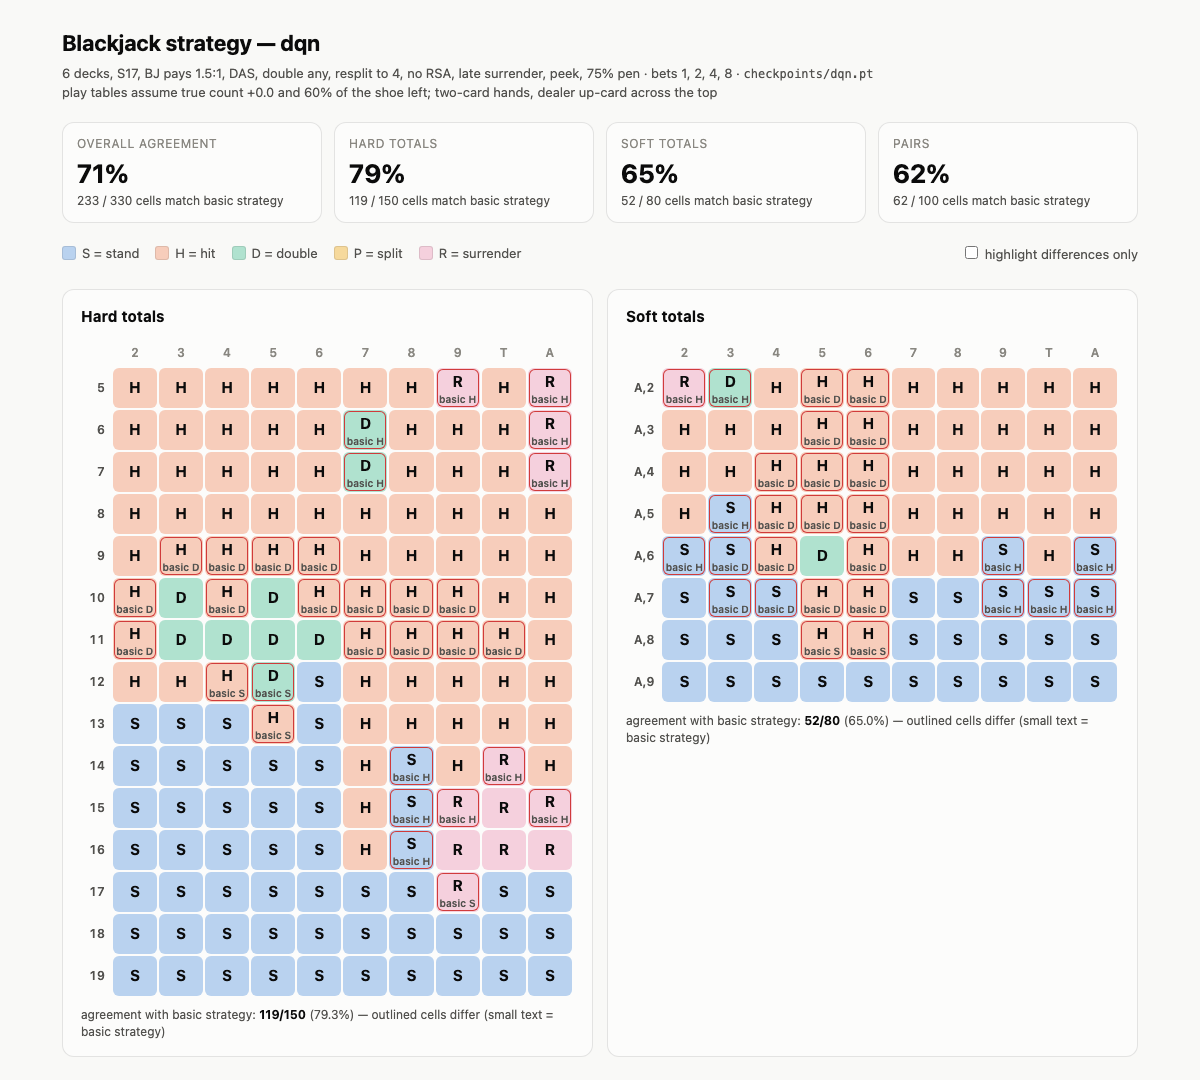
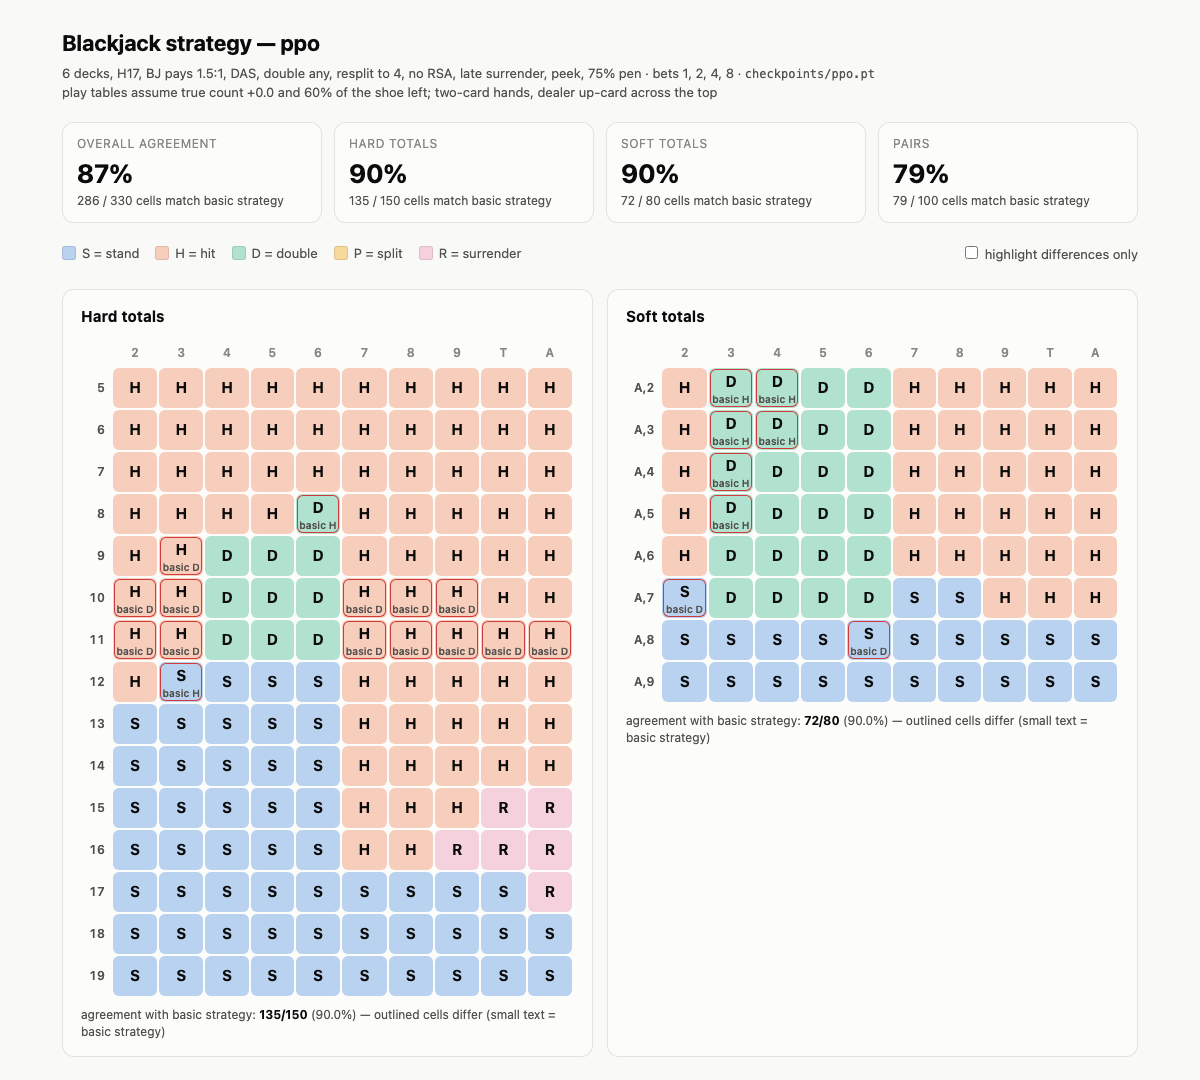
PPO: entropy coef 0.02 by default (learns bet spread); H17 results + strategy screenshot

diff --git a/blackjack_rl/cli/train_ppo.py b/blackjack_rl/cli/train_ppo.py
@@ -28,8 +28,8 @@ def main(argv=None) -> None:
     p.add_argument("--epochs", type=int, default=4)
     p.add_argument("--minibatches", type=int, default=8)
     p.add_argument("--clip", type=float, default=0.2)
-    p.add_argument("--ent-coef", type=float, default=0.005)
-    p.add_argument("--ent-coef-end", type=float, default=0.0)
+    p.add_argument("--ent-coef", type=float, default=0.02)
+    p.add_argument("--ent-coef-end", type=float, default=0.002)
     p.add_argument("--vf-coef", type=float, default=0.5)
     p.add_argument("--log-every", type=int, default=10)
     p.add_argument("--eval-every", type=int, default=50)

diff --git a/blackjack_rl/agents/ppo.py b/blackjack_rl/agents/ppo.py
@@ -157,8 +157,8 @@ class PPOConfig:
     minibatches: int = 8
     clip_coef: float = 0.2
     clip_vloss: bool = True
-    ent_coef: float = 0.005
-    ent_coef_end: float = 0.0        # linear anneal
+    ent_coef: float = 0.02           # keep exploring: with 0.005 the policy went deterministic before learning doubles/splits/bets
+    ent_coef_end: float = 0.002      # linear anneal
     vf_coef: float = 0.5
     max_grad_norm: float = 0.5
     norm_adv: bool = True

diff --git a/README.md b/README.md
@@ -212,7 +212,16 @@ Reference points (6D H17 DAS LS, bets 1/2/4/8, Apple M2 Max):
 
 | run | wall time | EV / unit wagered | agreement with basic strategy (hard / soft / pairs) | bet spread |
 |---|---|---|---|---|
-| basic strategy + Hi-Lo (benchmark) | – | ≈ −0.3 % … +0.3 % | 100 % | 1 → 8 |
-| PPO, 50M rounds, 2048 envs × 8 workers, MPS | PPO_TIME | PPO_EV | PPO_AGREE | PPO_SPREAD |
+| basic strategy, flat bet | – | −0.62 % | 100 % | flat |
+| basic strategy + Hi-Lo 1-2-4-8 (benchmark) | – | ≈ −0.3 % … +0.3 % | 100 % | 1 → 8 from TC +2 |
+| PPO, 50M rounds, `--ent-coef 0.005` | 28 min | −1.8 % | 85 / 93 / 54 % | none (flat 1; rarely doubles/splits, never surrenders) |
+| PPO, 50M rounds, `--ent-coef 0.02` (default) | 28 min | **−1.05 %** (last 200k-round eval −0.5 %) | **90 / 90 / 79 %** | **1 → 2 → 4 from TC +3/+4**, EV/round positive at TC ≥ +3 |
 
-PPO_NOTES
+The entropy coefficient turned out to be the important knob: with a small bonus the policy goes
+deterministic within a few million rounds and never explores doubles, splits, surrender or bigger
+bets; with `0.02 → 0.002` it keeps sampling those, matches basic strategy on 90 % of hard/soft cells,
+surrenders like basic strategy does, and — the interesting part — learns on its own to raise its bet
+when the true count is high, i.e. it discovers card counting from the count feature. It does not beat
+the house yet: the remaining gaps are pairs (79 %) and the size of the spread (it stops at 4 units;
+Hi-Lo goes to 8), both of which are the rarest situations in the data. `--resume checkpoints/ppo.pt
+--total-rounds 100000000` is the cheap next experiment.
